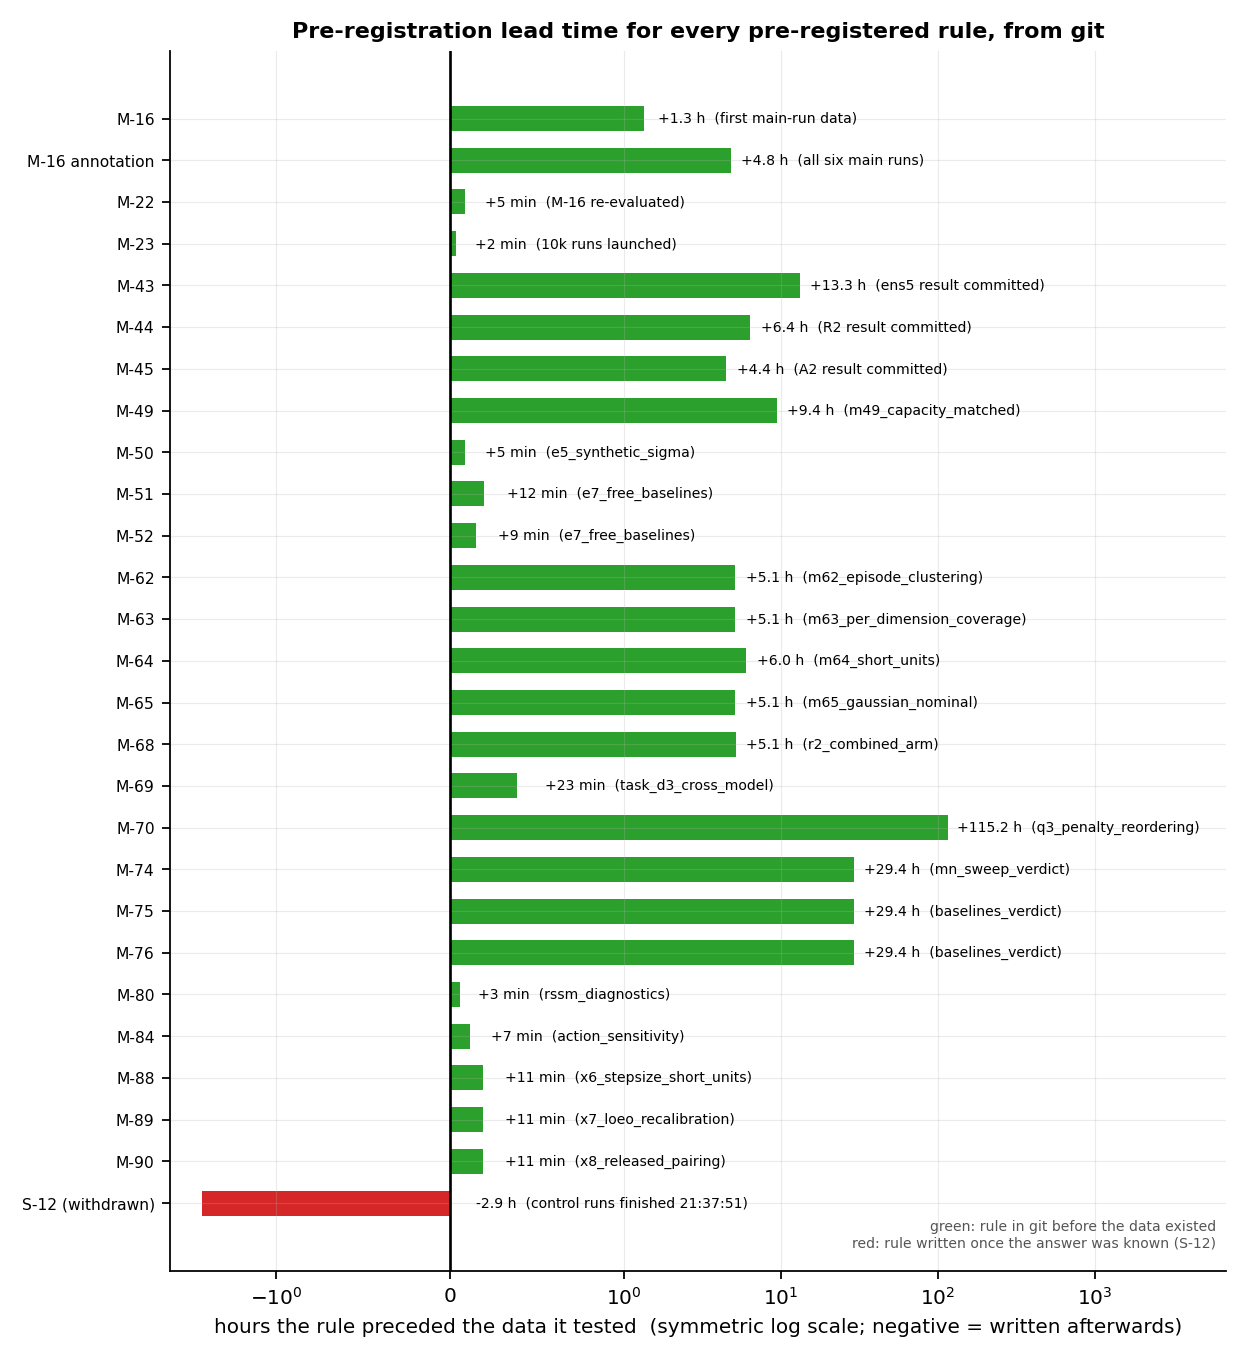
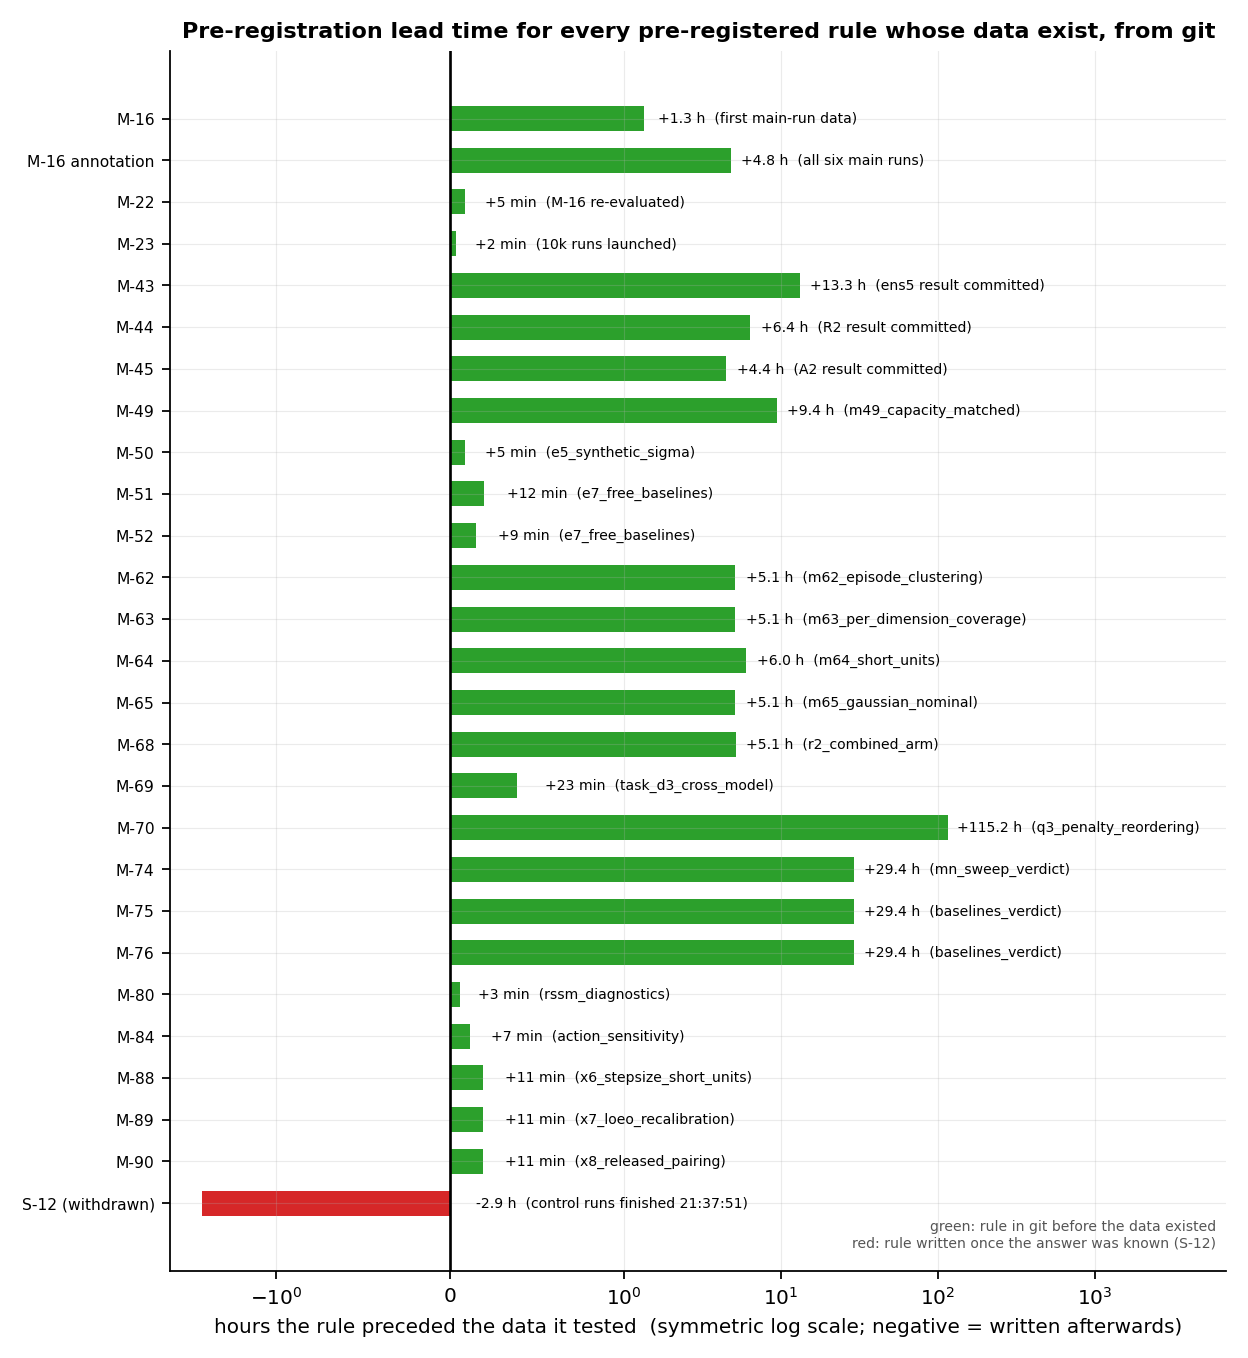
[F4][7] Figure 1's caption: a lead of a few minutes means the rule was committed just before its runs were launched or its readings computed; caption and in-figure title now say 'whose data exist'

Changed region(s): [[0.1562, 0.0, 0.9688, 0.0309]]

diff --git a/scripts/build_paper.py b/scripts/build_paper.py
@@ -417,11 +417,12 @@ def main():
             "sign flip is the evidence that the objective, not the optimiser or the data, "
             "produces it.",
         "paper_fig4_prereg_timeline.png":
-            "Pre-registration lead time for every pre-registered rule (Appendix E), with M-16's "
-            "annotation beside its rule, from git commit timestamps on a symmetric-logarithmic axis. "
+            "Pre-registration lead time for every pre-registered rule whose data exist (Appendix E), with "
+            "M-16's annotation beside its rule, from git commit timestamps on a symmetric-logarithmic axis. "
             "Positive is a rule committed before the data that tested it existed; negative is a "
-            "rule written afterwards. The one negative bar is the Task 3 duplication rule (S-12), "
-            "retracted as a pre-registration in this paper.",
+            "rule written afterwards. A lead of a few minutes means the rule was committed just before "
+            "its runs were launched or its readings computed. The one negative bar is the Task 3 "
+            "duplication rule (S-12), retracted as a pre-registration in this paper.",
         "paper_fig6_ab_by_horizon.png":
             "The autoregressive-versus-teacher-forcing advantage as a function of forecast "
             "horizon, out-of-sample over three seeds at " + str(N["iters_long"]["value"])

diff --git a/scripts/paper_figures.py b/scripts/paper_figures.py
@@ -520,7 +520,7 @@ def fig4_timeline(rec):
         x = v * 1.15 + 0.1 if v > 0 else 0.15
         ax.text(x, i, f"{fmt(v)}  ({b['tested_by']})", va="center", ha="left", fontsize=6.3)
     ax.set(xlabel="hours the rule preceded the data it tested  (symmetric log scale; negative = written afterwards)",
-           title="Pre-registration lead time for every pre-registered rule, from git")
+           title="Pre-registration lead time for every pre-registered rule whose data exist, from git")
     ax.set_xlim(min(vals) * 1.6, max(vals) * 60)
     ax.text(0.99, 0.02, "green: rule in git before the data existed\n"
                         "red: rule written once the answer was known (S-12)",
